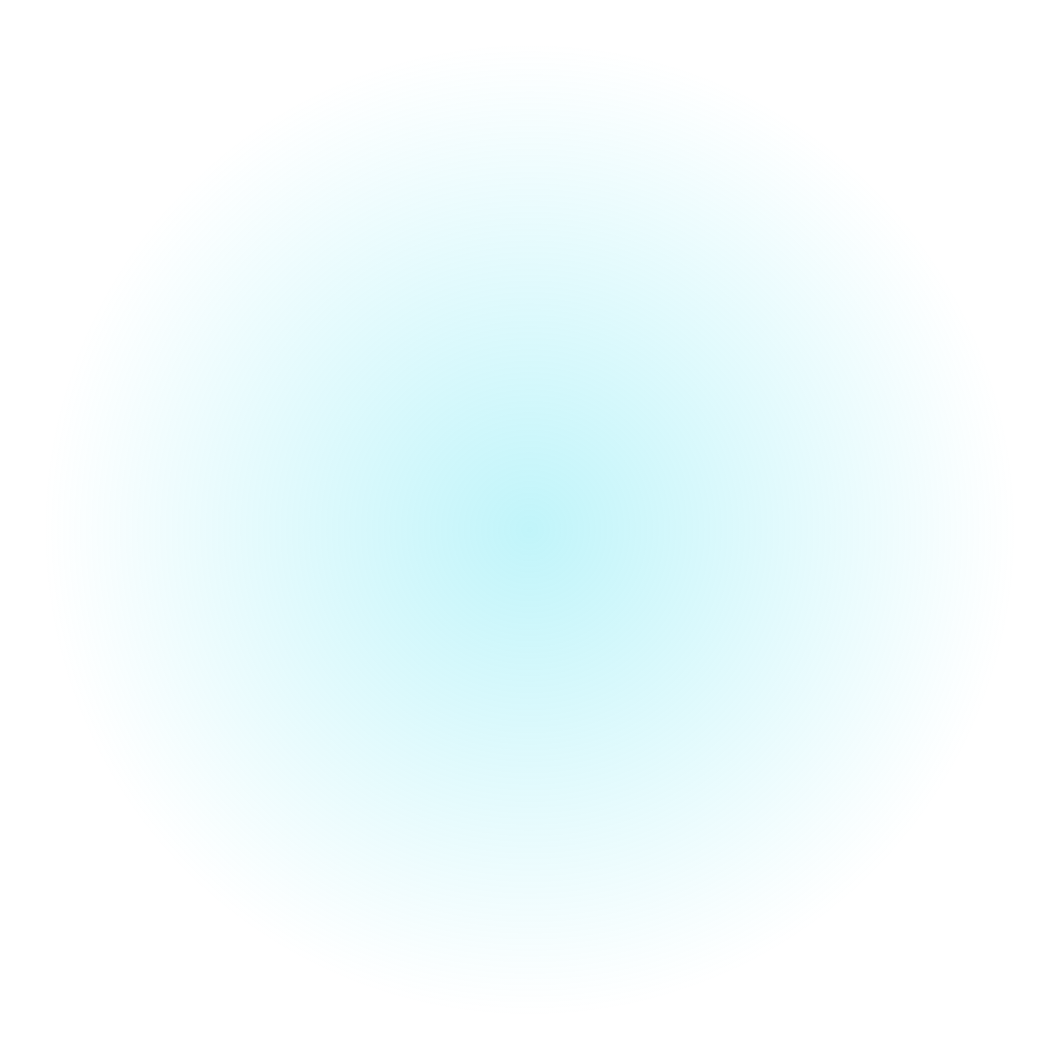
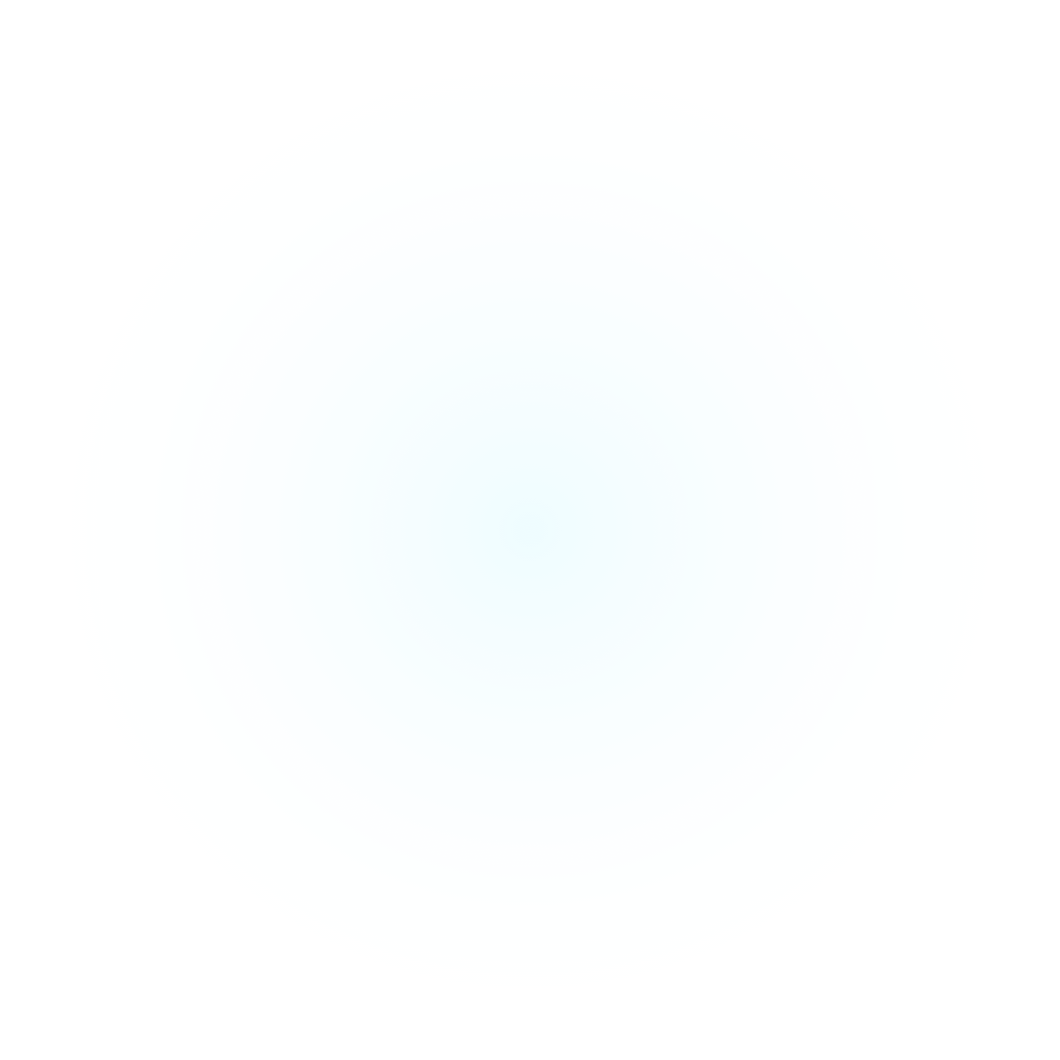
FTUE: welcome halo baked for linear blending (dark and light)
Claude-Session: https://claude.ai/code/session_01W4jNppp7H4hGRxEDzzVmwa

Changed region(s): [[0.2491, 0.2491, 0.7472, 0.7472]]

diff --git a/ArtRef/tools/render_ftue.py b/ArtRef/tools/render_ftue.py
@@ -36,7 +36,7 @@ add('ftue_ring', 110, 110, '<i style="position:absolute;left:24px;top:24px;width
 add('ftue_hand', 56, 64, '<svg style="position:absolute;left:6px;top:6px" width="44" height="52" viewBox="0 0 44 52"><circle cx="10" cy="8" r="9" fill="none" stroke="#dffbff" stroke-width="2" opacity=".7"/><path d="M8 8v24l-4-4c-3-3-7 1-4 4l11 13c2 3 5 4 9 4h8c6 0 10-4 10-10V24c0-3-4-3-4 0v-2c0-3-4-3-4 0v-2c0-3-4-3-4 0v-1c0-3-4-3-4 0V8c0-4-6-4-6 0z" fill="#e9f7fa" stroke="#0b1c22" stroke-width="2" stroke-linejoin="round"/></svg>')
 add('ftue_swipe', 180, 50, '<svg style="position:absolute;left:5px;top:5px" width="170" height="40" viewBox="0 0 170 40"><defs><linearGradient id="sg"><stop offset="0" stop-color="#46e0f0" stop-opacity="0"/><stop offset="1" stop-color="#46e0f0"/></linearGradient></defs><path d="M6 20H150" stroke="url(#sg)" stroke-width="5" stroke-linecap="round"/><path d="M140 8l18 12-18 12" fill="none" stroke="#46e0f0" stroke-width="5" stroke-linecap="round" stroke-linejoin="round"/></svg>')
 # welcome
-add('ftue_halo', 280, 280, '<i style="position:absolute;left:0;top:0;width:280px;height:280px;border-radius:50%;background:radial-gradient(circle,#46e0f055,#46e0f000 65%)"></i>')
+add('ftue_halo', 280, 280, '<i style="position:absolute;left:0;top:0;width:280px;height:280px;border-radius:50%;background:radial-gradient(circle,#46e0f055,#46e0f000 65%)"></i>', 'glow')
 add('ftue_ray', 8, 48, '<i style="position:absolute;left:2px;top:2px;width:4px;height:44px;border-radius:2px;background:linear-gradient(#dffbff,#46e0f000)"></i>')
 add('ftue_frame', 280, 280, '<i style="position:absolute;left:60px;top:60px;width:160px;height:160px;box-sizing:border-box;border-radius:42px;background:#06080f;border:3px solid #46B8C6;box-shadow:0 0 50px #46B8C688"></i>', 'glow')
 add('ftue_bubble', 140, 140, '<i style="position:absolute;left:40px;top:30px;width:60px;height:60px;border-radius:20px;background:#e9f7fa;box-shadow:0 10px 30px #000a"></i>')
